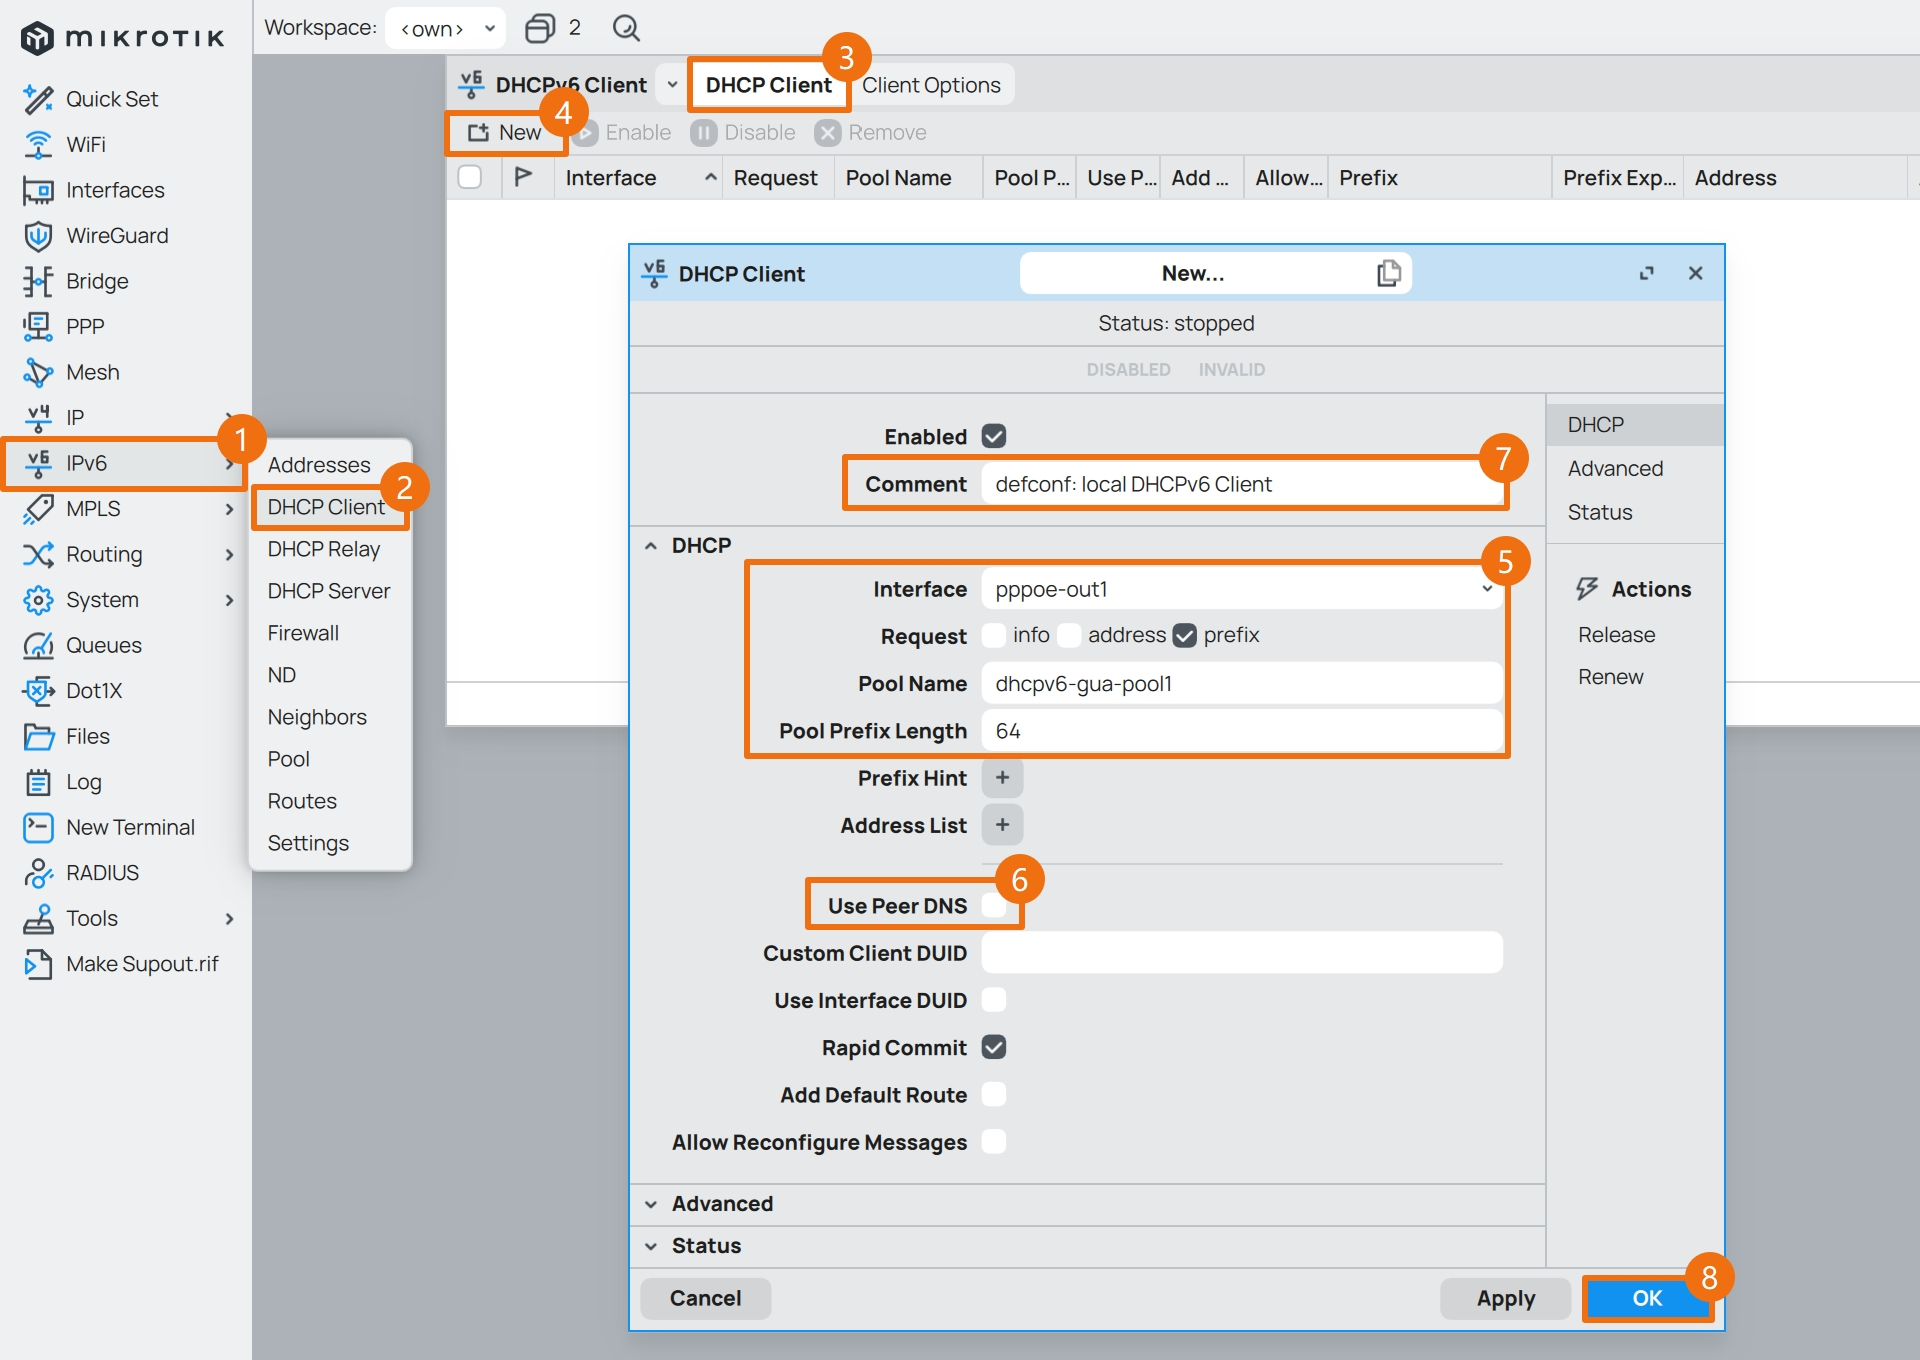
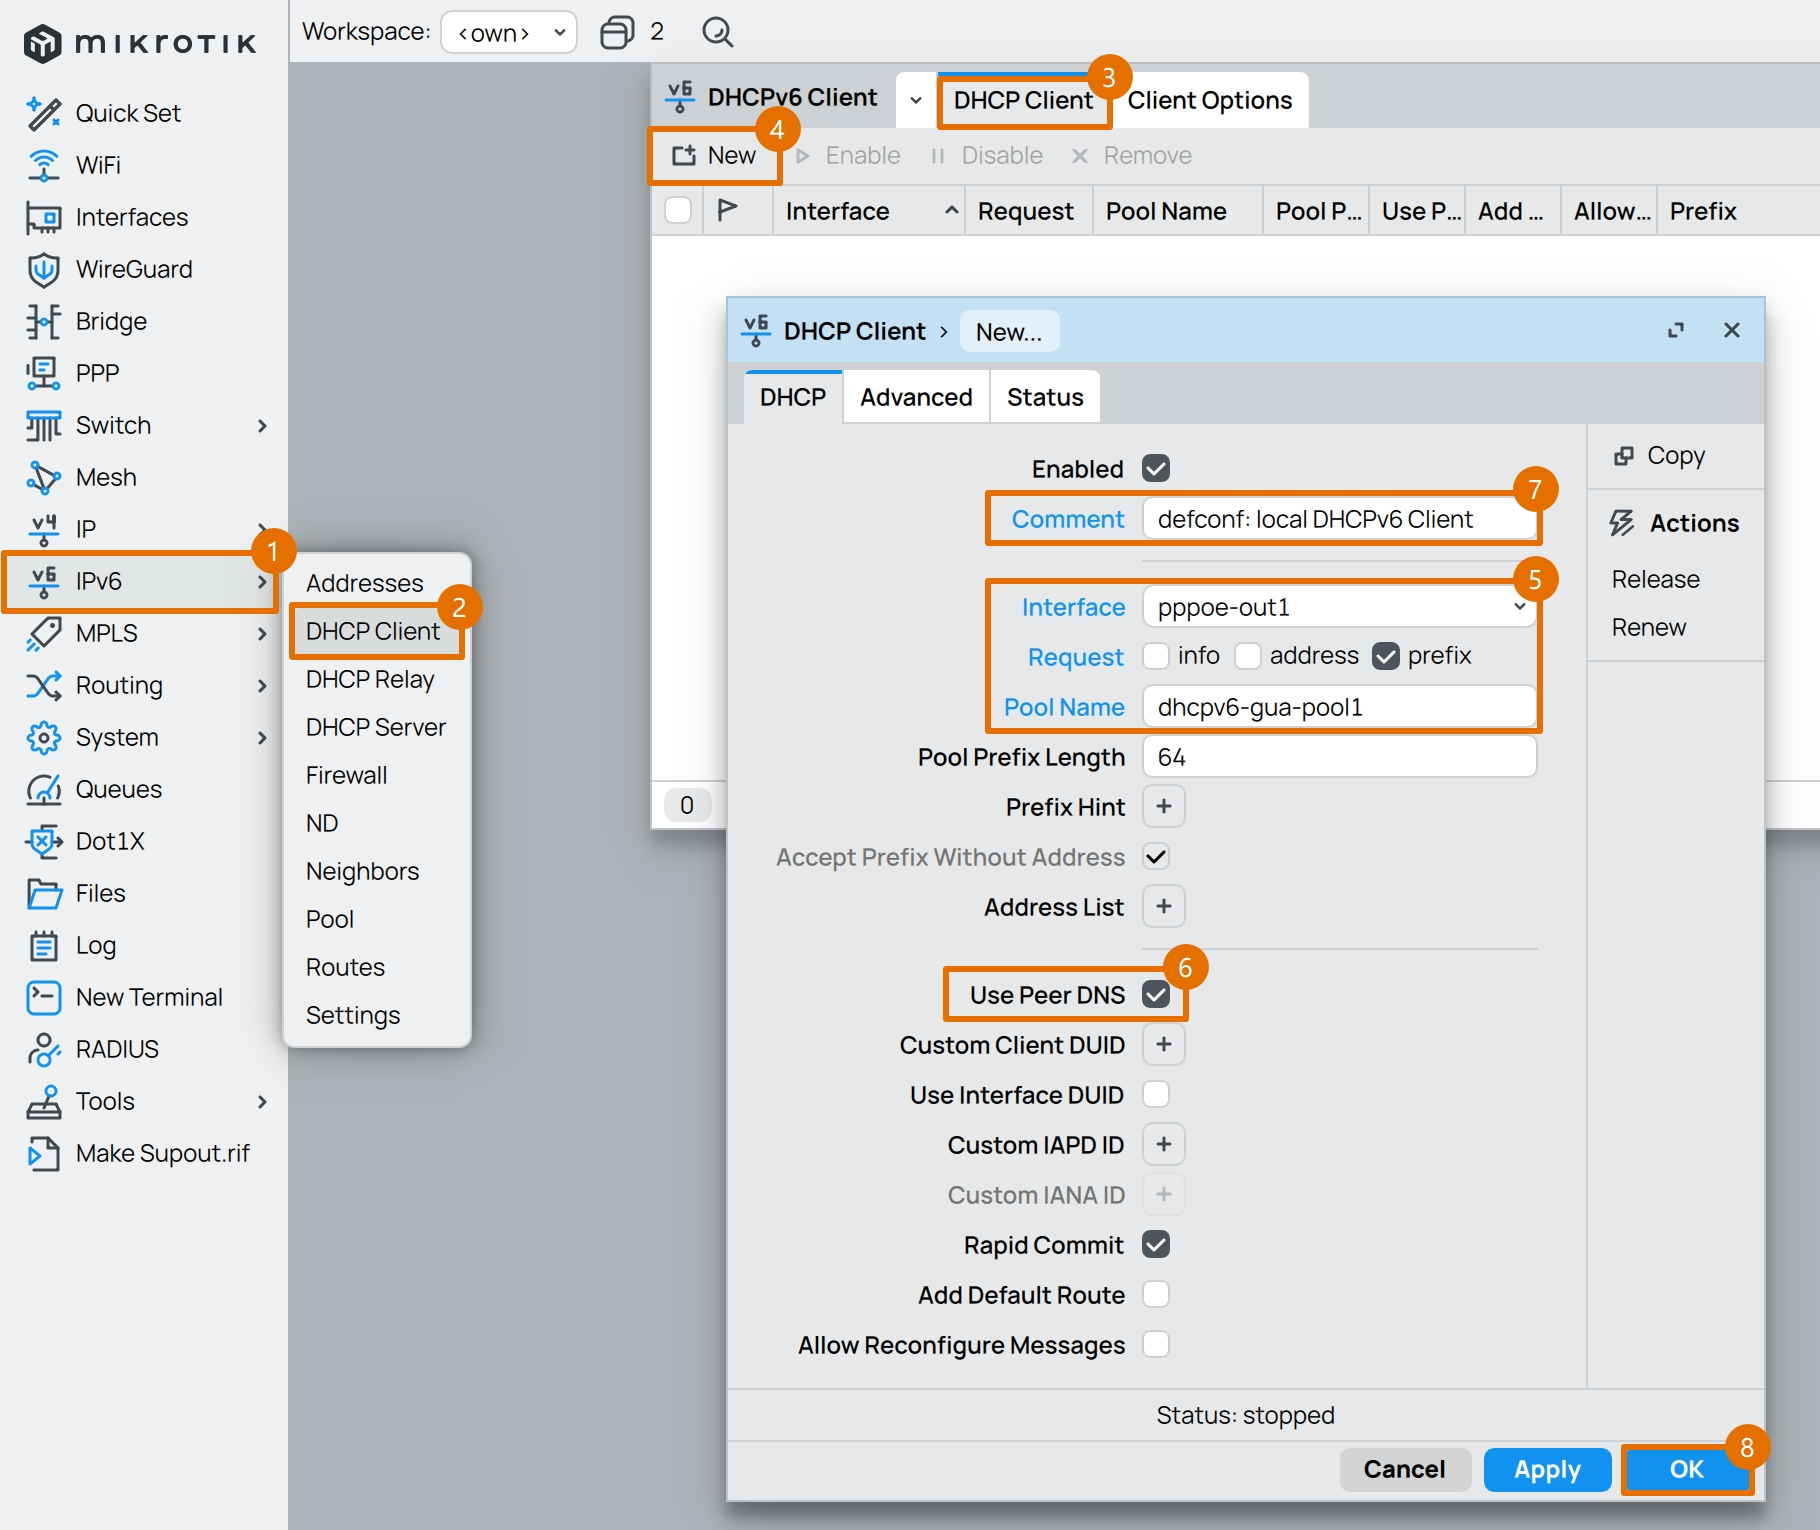
更新 DNS 说明

diff --git a/08.设置IPv6.md b/08.设置IPv6.md
@@ -30,8 +30,8 @@
 |Request|`prefix`|表示只获取前缀信息|
 |Pool Name|`dhcpv6-gua-pool1`|设置本地 IPv6 GUA 地址池名称|
 |Pool Prefix Length|`64`|设置本地 IPv6 GUA 地址池长度|
-|Use Peer DNS| **取消勾选** |不使用运营商的 IPv6 DNS 服务器|
-|Add Default Route| **不勾选** |是否加入默认路由，建议是无需勾选|
+|Use Peer DNS| 勾选 |勾选时，将使用运营商的 IPv6 DNS 服务器|
+|Add Default Route| 不勾选 |是否加入默认路由，建议是无需勾选|
 |Comment|`defconf: local DHCPv6 Client`|备注信息|
 
 ![创建DHCPv6客户端](img/p08/wb_dhcpv6_client.jpeg)
@@ -200,11 +200,15 @@
 
 ## 4.修改系统 DNS
 
-启用 IPv6 后，需要给 RouterOS 重新指定上游 DNS 服务器地址。  
+当 RouterOS IPv6 功能启用后，需结合实际网络环境，按需调整上游 DNS 服务器地址。  
 
-点击 Winbox 左侧导航 `IP` 菜单的子菜单 `DNS` ，并修改 `Servers` 参数。  
+点击 Winbox 左侧导航 `IP` 菜单的子菜单 `DNS` ，即可查看当前 DNS 服务器的状态信息。  
 
-在 `Servers` 处增加国内知名的 DNS 服务提供商的 IPv6 地址。  
+若在配置 PPPoE 拨号与 DHCPv6 客户端时，已勾选 `Use Peer DNS` 选项，则无需进一步调整上游 DNS 服务器。  
+
+![设置RouterOS的上游DNS](img/p08/wb_system_dns_review.jpeg)
+
+否则，需在 `Servers` 处增加自定义 IPv6 DNS 地址。  
 
 - 阿里云 AliDNS 的 IPv6 地址为：`2400:3200::1` 和 `2400:3200:baba::1`  
 

diff --git a/03.设置DNS.md b/03.设置DNS.md
@@ -6,7 +6,7 @@
 
 使用 Winbox 登录 RouterOS ，点击左侧导航 `IP` 菜单的子菜单 `DNS` ，并修改参数。  
 
-若之前步骤中勾选了 `Use Peer DNS` 选项，当 PPPoE 拨号成功后，上游运营商下发的 DNS 服务器将在 `Dynamic Servers` 中展示。  
+若之前步骤中勾选了 `Use Peer DNS` 选项，当 PPPoE 拨号成功后，运营商下发的 DNS 服务器将在 `Dynamic Servers` 中展示。  
 
 此时，无需额外手动配置自定义 DNS 服务器。  
 
